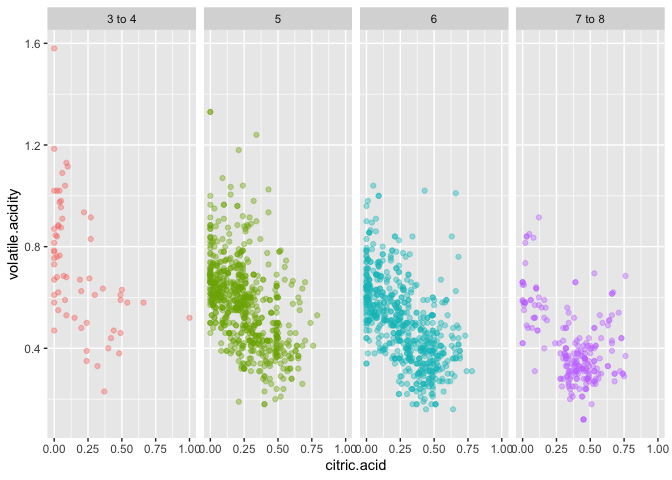
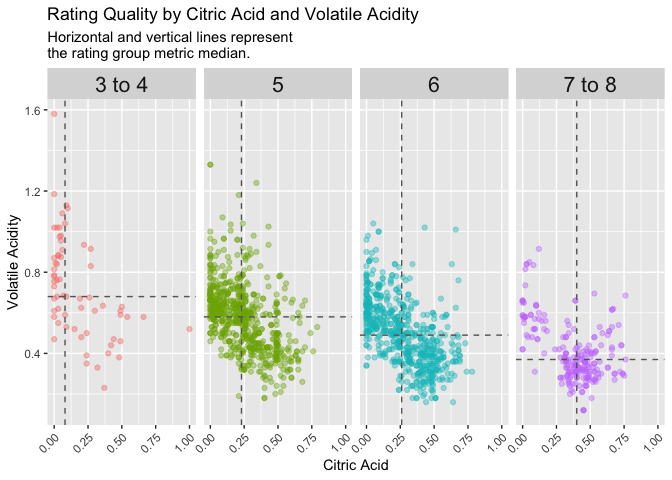
Minor fix

diff --git a/red_wine_quality_data_vis.md b/red_wine_quality_data_vis.md
@@ -361,15 +361,6 @@ the rating group metric median.",
 
 ``` r
 rw_df %>% 
-  ggplot(aes(x=citric.acid, y=volatile.acidity)) +
-  geom_point(aes(color=quality_2), alpha=0.4, show.legend = F) +
-  facet_wrap(. ~ quality_2, ncol=4)
-```
-
-![](red_wine_quality_data_vis_files/figure-gfm/unnamed-chunk-13-1.png)<!-- -->
-
-``` r
-rw_df %>% 
   group_by(quality_2) %>%
   mutate(median_citric.acid = median(citric.acid),
          median_volatile.acidity = median(volatile.acidity)) %>%
@@ -387,7 +378,7 @@ the rating group metric median.",
        x="Citric Acid")
 ```
 
-![](red_wine_quality_data_vis_files/figure-gfm/unnamed-chunk-13-2.png)<!-- -->
+![](red_wine_quality_data_vis_files/figure-gfm/unnamed-chunk-13-1.png)<!-- -->
 
 ### Future ideas
 
